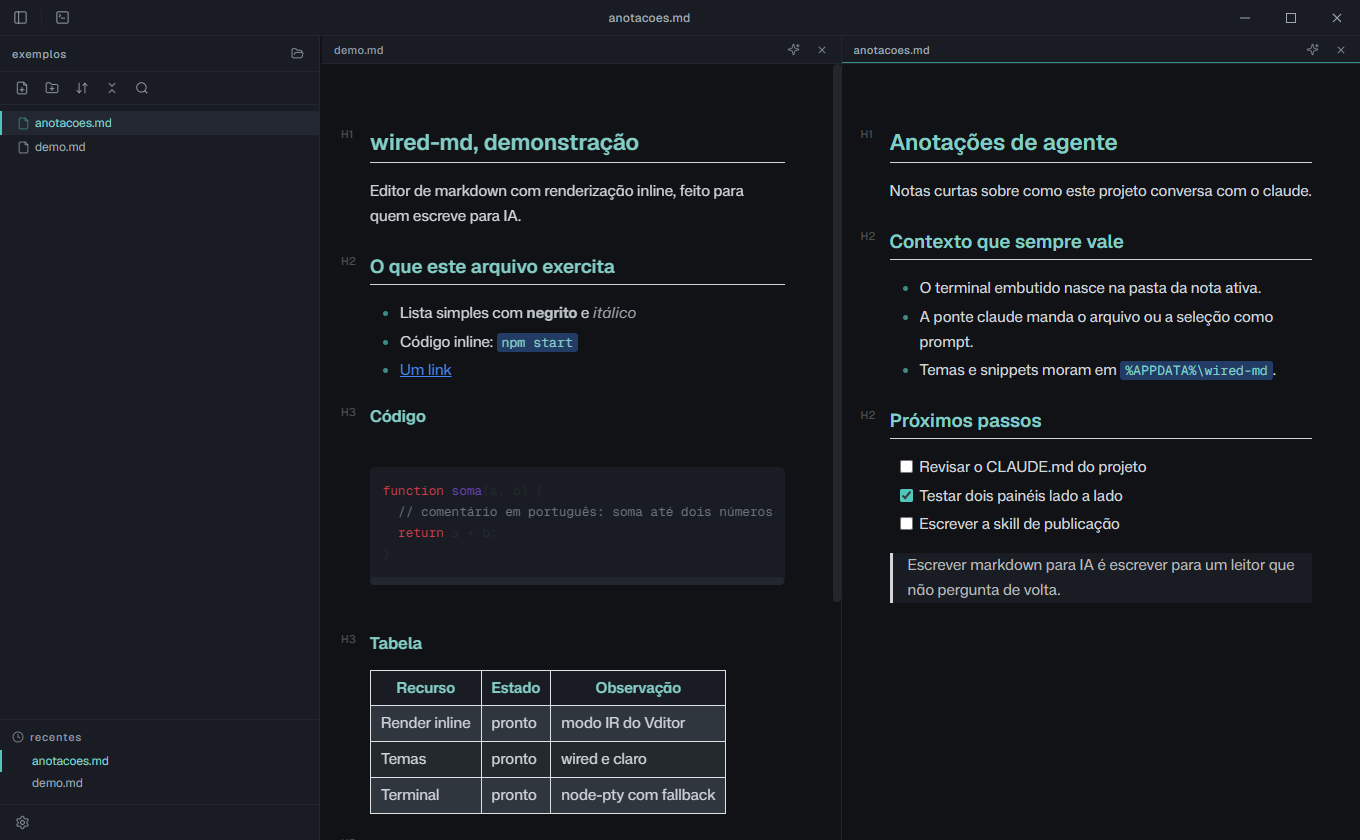
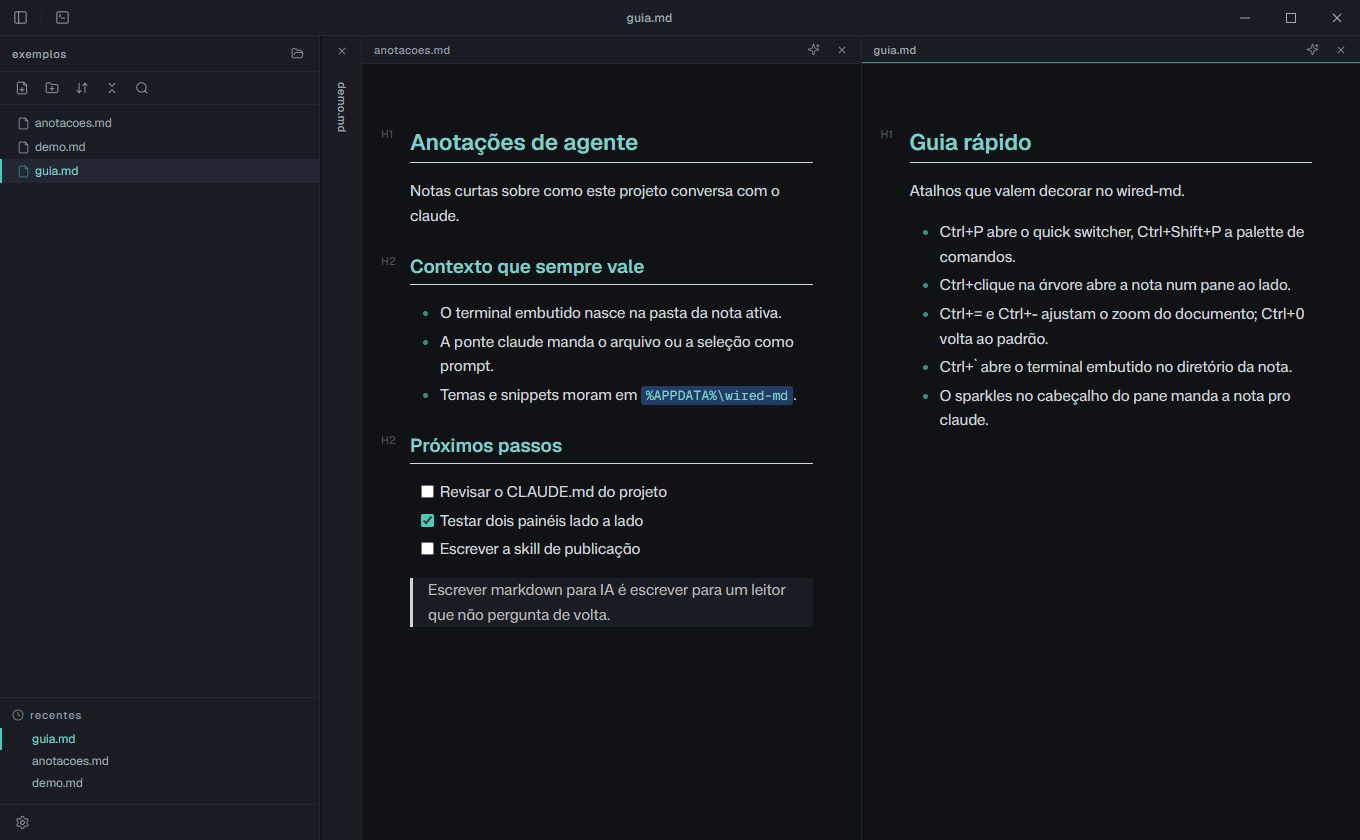
fase 6c: integração e teste
E2E 35/35 verde em rodadas seguidas, smoke verde. Exploratório dirigido
por hook temporário (removido): criar em subpasta, renomear com pane
aberto, lixeira, busca, lombadas, maximizar, zoom, altura do terminal
entre sessões e ponte claude sem Enter no claude real.

Fixes do exploratório: pathRenamed deduplica os recentes; placeholder
sem-título.md com acento. Screenshot novo com 3 panes (um em lombada)
e exemplos/guia.md como terceiro arquivo de exemplo.

Claude-Session: https://claude.ai/code/session_01HoELoNyZDPC3UuAP92GysX

diff --git a/src/main.js b/src/main.js
@@ -205,7 +205,7 @@ ipcMain.handle('dialog:open', async () => {
 ipcMain.handle('dialog:saveAs', async (_ev, suggestedPath) => {
   const result = await dialog.showSaveDialog(mainWindow, {
     title: 'Salvar como',
-    defaultPath: suggestedPath || 'sem-titulo.md',
+    defaultPath: suggestedPath || 'sem-título.md',
     filters: [{ name: 'Markdown', extensions: ['md', 'markdown'] }]
   });
   if (result.canceled || !result.filePath) return null;
@@ -902,12 +902,16 @@ async function runE2eTest() {
     const zoomReset = await js('config.fontSize');
     check('zoom: Ctrl+= sobe a fonte pra 17 (persistida) e Ctrl+0 volta pra 15', !!zoomUp && zoomUp.cfg === 17 && zoomUp.css === '17px' && !!cfgZoom && cfgZoom.fontSize === 17 && zoomReset === 15, JSON.stringify({ zoomUp, disk: cfgZoom && cfgZoom.fontSize, zoomReset }));
 
-    // 21. screenshot final: janela larga, sidebar visível e dois panes abertos
+    // 21. screenshot final: janela larga, sidebar visível e três panes (a
+    // régua com a sidebar de 320px deixa dois abertos e um em lombada)
     await js('toggleTerminal(false)');
     mainWindow.setSize(1360, 840);
     mainWindow.center();
     const notasPath = path.join(path.dirname(demoPath), 'anotacoes.md');
+    const guiaPath = path.join(path.dirname(demoPath), 'guia.md');
     await js(`openPath(${JSON.stringify(notasPath)}, true)`);
+    await sleep(1000);
+    await js(`openPath(${JSON.stringify(guiaPath)}, true)`);
     await sleep(1500);
     const img = await mainWindow.webContents.capturePage();
     const docsDir = path.join(__dirname, '..', 'docs');

diff --git a/src/renderer/renderer.js b/src/renderer/renderer.js
@@ -623,11 +623,13 @@ function pathRenamed(from, to) {
     if (pane.id === activePaneId) updateChrome();
   }
   const isDir = !/\.(md|markdown)$/i.test(from);
-  config.recentFiles = (config.recentFiles || []).map((r) => {
+  // o map pode gerar duplicata quando o path de destino já estava nos
+  // recentes (sessão antiga), então dedup preservando a ordem
+  config.recentFiles = [...new Set((config.recentFiles || []).map((r) => {
     if (r === from) return to;
     if (isDir && r.startsWith(from + '\\')) return to + r.slice(from.length);
     return r;
-  });
+  }))];
   saveConfig();
   refreshSidebar();
 }
@@ -649,7 +651,7 @@ async function createNewMd(targetDir) {
     newFile();
     return;
   }
-  let name = await askInput('novo arquivo em ' + baseName(dir), 'sem-titulo.md', 'criar');
+  let name = await askInput('novo arquivo em ' + baseName(dir), 'sem-título.md', 'criar');
   if (!name) return;
   if (!/\.(md|markdown)$/i.test(name)) name += '.md';
   const res = await window.wired.createFile(dir + '\\' + name);

diff --git a/README.md b/README.md
@@ -7,15 +7,16 @@ Editor de markdown para desktop (Windows), estilo Typora: o markdown renderiza i
 ## Recursos
 
 - Renderização inline (modo IR do Vditor), tema dark por padrão.
-- Sidebar com árvore de arquivos da pasta da nota aberta (só .md), atualizada sozinha quando algo muda no disco, mais a seção de recentes. Redimensionável e ocultável.
-- Painéis lado a lado (sliding panes): até 4 arquivos abertos ao mesmo tempo, cada um com salvar e estado sujo próprios. Ctrl+clique na árvore ou nos recentes abre ao lado.
+- Sidebar estilo Obsidian: árvore de arquivos da pasta da nota aberta (só .md), atualizada sozinha quando algo muda no disco, mais a seção de recentes. Cabeçalho com o nome da raiz e atalho pro Explorer; toolbar com novo .md, nova pasta, ordenação, colapsar tudo e busca que filtra a árvore; menu de contexto (renomear, duplicar, exportar, copiar caminho, excluir pra lixeira). Redimensionável e ocultável.
+- Painéis lado a lado (sliding panes de verdade): até 4 arquivos abertos, cada um com salvar e estado sujo próprios. O painel ativo fica largo e os que não cabem viram uma lombada vertical de 40px; clicar nela expande. O layout recalcula sozinho ao redimensionar a janela. Ctrl+clique na árvore ou nos recentes abre ao lado.
 - Command palette (Ctrl+Shift+P) com as ações do app e quick switcher (Ctrl+P) com busca fuzzy nos .md da árvore. Ctrl+Enter abre ao lado.
-- Ponte claude: botões na barra mandam o arquivo atual ou a seleção como prompt pro `claude` no terminal embutido, já na pasta da nota.
+- Ponte claude por nota: o sparkles no cabeçalho de cada painel abre o terminal, sobe o `claude`, faz `/cd` na pasta da nota e digita o caminho do arquivo no prompt, sem enviar: você completa a pergunta. A palette também manda a seleção.
+- Zoom do documento: Ctrl+= / Ctrl+- / Ctrl+0 ou Ctrl+scroll, persistido.
 - Janela frameless com barra de título própria, só ícones (sem menus de texto), estilo Obsidian.
 - Temas custom estilo Obsidian: arquivos .css em `%APPDATA%\wired-md\themes\` que definem só as variáveis de cor. Dois vêm de fábrica: `wired` (dark) e `claro`.
 - CSS snippets ligáveis um a um, em `%APPDATA%\wired-md\snippets\`.
 - Cor de destaque, fonte do documento, fonte de código e tamanho do texto no painel de configurações (engrenagem). Tudo persiste em `%APPDATA%\wired-md\config.json`.
-- Terminal embutido (Ctrl+`), abre no diretório do arquivo atual; botão `claude` digita o comando no shell. Backend node-pty com fallback de pipes.
+- Terminal embutido (Ctrl+`), abre no diretório do arquivo atual e redimensiona pelo arrasto da borda superior (altura persistida); botão `claude` digita o comando no shell. Backend node-pty com fallback de pipes.
 
 ## Como rodar
 
@@ -32,6 +33,7 @@ Abrir um arquivo direto: `npx electron . caminho\para\arquivo.md`
 - Ctrl+` abre e fecha o terminal.
 - Ctrl+P quick switcher (arquivos), Ctrl+Shift+P command palette (ações). Enter abre ou executa, Ctrl+Enter abre ao lado, Esc fecha.
 - Ctrl+clique num arquivo da árvore ou dos recentes abre num painel ao lado.
+- Ctrl+= aumenta a fonte do documento, Ctrl+- diminui, Ctrl+0 volta ao padrão; Ctrl+scroll sobre o texto também funciona.
 
 ## Testes
 

diff --git a/CLAUDE.md b/CLAUDE.md
@@ -74,6 +74,15 @@ npm start
 - ZOOM DA FONTE DO DOCUMENTO: Ctrl+= (e Ctrl+Shift+=, que chega como `+`), Ctrl+- e Ctrl+0 (volta a 15), além de Ctrl+scroll no `#panes`; mexe em `config.fontSize` com o clamp 11 a 26 e atualiza o campo do painel de configurações se aberto.
 - E2E da fase 6b: 35 checks. Novos: lombada em janela estreita (3 panes, 2 colapsados, título vertical), clique na lombada expande, resize recalcula (o check oculta a sidebar antes, senão os ~320px dela mudam a régua), arrasto do terminal com persistência e clamp, zoom por atalho persistido (o check faz `setFontZoom(15)` antes porque o config real do usuário pode ter outro tamanho). Adaptados: checks 9 e 20, que referenciavam os botões claude da barra de título.
 
+## Integração e teste (fase 6c, implementada)
+
+- E2E 35/35 verde estável (duas rodadas seguidas) e smoke verde após as fases 6a e 6b.
+- Exploratório dirigido via hook temporário no main.js (WIRED_EXPLORE, removido depois): criar .md pela toolbar dentro de subpasta, renomear pelo menu de contexto com o arquivo aberto num pane (pane, barra de título e recentes acompanham), excluir pela lixeira (pane fecha e recentes limpam), busca filtra e Esc restaura, 3 panes com três trocas de foco pela lombada, maximizar recalcula pela régua, Ctrl+scroll de zoom persistido, altura do terminal persistida ENTRE SESSÕES (duas execuções do app), ponte claude com claude real digitando o path sem Enter.
+- Armadilha do exploratório: artefato de rodada morta no meio (arquivo de teste que sobrou) faz o `alert()` de erro de criação bloquear o renderer e travar todo executeJavaScript seguinte; o hook precisa limpar os artefatos no INÍCIO, não só no fim. E `executeJavaScript` que termina numa atribuição de função ("An object could not be cloned") precisa terminar em `void 0`.
+- Fix do exploratório: `pathRenamed` deduplica os recentes depois do map (renomear pra um path que já estava na lista criava entrada dupla).
+- O screenshot do E2E (passo 21) sai com 3 panes (demo, anotações e o guia.md novo em exemplos/), um deles em lombada, e a sidebar visível.
+- Placeholder de nome de arquivo ganhou acento: `sem-título.md` (renderer e dialog save do main).
+
 ## Auditoria integrada (fase 5c, implementada)
 
 - E2E 24/24 verde estável (duas rodadas seguidas) e smoke verde. Teste exploratório extra (10 fluxos cruzados que o E2E não cobre) rodado via hook temporário no main.js, depois removido: dois panes sujos com Ctrl+S em cada, tema com panes abertos, resize da sidebar com terminal aberto, recentes com vários arquivos, fs.watch com arquivo criado por fora, fechar o último pane, switcher com Ctrl+Enter.

diff --git a/exemplos/guia.md b/exemplos/guia.md
@@ -1,0 +1,9 @@
+# Guia rápido
+
+Atalhos que valem decorar no wired-md.
+
+- Ctrl+P abre o quick switcher, Ctrl+Shift+P a palette de comandos.
+- Ctrl+clique na árvore abre a nota num pane ao lado.
+- Ctrl+= e Ctrl+- ajustam o zoom do documento; Ctrl+0 volta ao padrão.
+- Ctrl+` abre o terminal embutido no diretório da nota.
+- O sparkles no cabeçalho do pane manda a nota pro claude.
